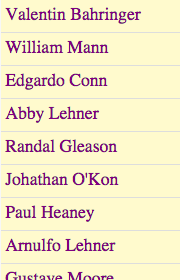
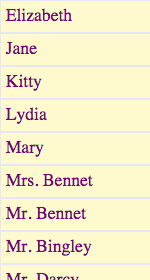
incorporated feedback from Eric, Rob, and Kevin

Changed region(s): [[0.0, 0.2286, 1.0, 1.0], [0.0267, 0.0, 1.0, 0.0857], [0.0, 0.1143, 1.0, 0.2]]

diff --git a/docs/elements/core-list-examples/core-list-names.html b/docs/elements/core-list-examples/core-list-names.html
@@ -8,6 +8,7 @@
   <style>
     core-list {
       border: solid 1px purple;
+      height: 200px;
     }
       
     div.item {
@@ -25,7 +26,7 @@
 
   <template is="auto-binding" id="my-core-list">
     <div class="content" flex>
-      <core-list data="{{data}}" flex>
+      <core-list data="{{data}}" flex height="30">
         <template>
           <div class="item">
             <span class="from">{{model.name}}</span>
@@ -36,11 +37,11 @@
   </template>
   
   <script>
-    var c = document.querySelector('#my-core-list');
+    var cl = document.querySelector('#my-core-list');
     names = [ 'Elizabeth', 'Jane', 'Kitty', 'Lydia', 'Mary', 'Mrs. Bennet', 'Mr. Bennet', 'Mr. Bingley', 'Mr. Darcy', '...'] ;
-    c.data = [];
+    cl.data = [];
     for (i = 0; i < names.length; i++) {
-      c.data.push({name: names[i]});
+      cl.data.push({name: names[i]});
     }
   </script>
 

diff --git a/docs/elements/core-list-examples/core-list-no-stale-images.html b/docs/elements/core-list-examples/core-list-no-stale-images.html
@@ -25,6 +25,9 @@
     <polymer-element name="list-test" layout vertical>
       <template>
         <style>
+          .image {
+            background-color: lightgray;
+          }
         </style>
 
         <core-header-panel id="hPanel" flex>
@@ -32,9 +35,7 @@
           <core-list id="list" data="{{data}}" flex>
             <template>
               <div class="item">
-              <core-image src="{{model.image.src}}"
-                   style="width:{{model.image.width}};
-                   height:{{model.image.height}}; background-color: lightgray;" preload></core-image>
+              <core-image class="image" src="{{model.image.src}}" width="{{model.image.width}}" height="{{model.image.height}}" preload></core-image>
               </div>
             </template>
           </core-list>

diff --git a/docs/elements/core-list.md b/docs/elements/core-list.md
@@ -8,8 +8,6 @@ subtitle: Guide
 
 <link rel="import" href="/elements/side-by-side.html">
 
-<!--<link rel="stylesheet" href="tutorial.css">-->
-
 <link rel="stylesheet" href="core-list.css">
 
 
@@ -23,7 +21,7 @@ which displays a virtual, infinite list of homogeneous items.
 A `core-list` item can contain text, images, or other kinds of elements.
 In addition, an item can be composed of multiple elements.
 
-<img src="/images/core-list/unsorted-names.png" height="280px" width="180px" style="float:left">
+<img src="/images/core-list/unsorted-names.png" height="280px" width="150px" style="float:left">
 <img src="/images/core-list/small-images.png" height="279px" width="110px" style="float:left;margin-left:30px">
 <img src="/images/core-list/multiple-elements.png" height="280px" width="265px" style="margin-left:30px">
 
@@ -65,11 +63,11 @@ but could be inside a {{site.project_title}} element.
 
 <pre>
 &lt;template is="auto-binding" id="my-core-list"&gt;
-  &lt;div&gt;
-    &lt;core-list id="list" <strong class="highlight nocode">data="{%raw%}{{data}}{%endraw%}"</strong> flex>
+  &lt;div class="content" flex&gt;
+    &lt;core-list <strong class="highlight nocode">data="{%raw%}{{data}}{%endraw%}"</strong> flex height="30">
       &lt;template>
         &lt;div class="item">
-          <strong class="highlight nocode">&lt;span>{%raw%}{{model.name}}{%endraw%}&lt;/span></strong>
+          <strong class="highlight nocode">&lt;span class="from">{%raw%}{{model.name}}{%endraw%}&lt;/span></strong>
         &lt;/div>
       &lt;/template>  
     &lt;/core-list>
@@ -118,6 +116,12 @@ For example, the 4th item in the list of names might have this model:
 }
 </pre>
 
+You refer to values in the model using a key:
+
+<pre>
+{%raw%}{{model.name}}{%endraw%}
+</pre>
+
 ## Using core-image with core-list
 
 Recall that just enough template elements are rendered to fill the viewport and that
@@ -158,8 +162,8 @@ This `core-list` uses a `<core-image>` element to display each image using the d
 &lt;core-list id="list" data="<strong class="highlight nocode">{%raw%}{{data}}{%endraw%}</strong>" flex&gt;
   &lt;template&gt;
     &lt;div class="item"&gt;
-      <strong class="highlight nocode">&lt;core-image src="{%raw%}{{model.image.src}}{%endraw%}"
-           style="width:{%raw%}{{model.image.width}}{%endraw%}; height:{%raw%}{{model.image.height}}{%endraw%}"&gt;&lt;/core-image&gt;</strong>
+      <strong class="highlight nocode">&lt;core-image class="image" src="{%raw%}{{model.image.src}}{%endraw%}"
+          width="{%raw%}{{model.image.width}}{%endraw%}" height="{%raw%}{{model.image.height}}{%endraw%}" style="background:Gray" preload&gt;&lt;/core-image&gt;</strong>
     &lt;/div&gt;
   &lt;/template&gt;
 &lt;/core-list&gt;
@@ -169,8 +173,12 @@ This `core-list` uses a `<core-image>` element to display each image using the d
 
 The `preload` attribute means that the `core-image` shows the background color or an alternate image (set with the `placeholder` attribute) until the true image is completely loaded. So instead of seeing stale images in the recycled templates, you see a background color or another image.
 
-## Providing heights
- 
+## Essential: Providing heights
+
+**A `core-list` must have a size so that its contents scroll when the height of the items is large enough to overflow that size.** By "must have a size", this generally means it has a `fit` or `flex` layout attribute, or has an explicit `height` set in CSS. `flex` only has meaning if its parent has either `layout horizontal` or `layout vertical`.
+
+### Image heights
+
 The browser must be able to determine the height of the item at the point the model is bound to the template. So `<img>` or `<core-image>` elements must have explicit heights and must not rely on loading the image to determine the height. The list will break unless you set the height of the image explicitly either:
 
 with the CSS height attribute (as in the name example above)
@@ -179,14 +187,20 @@ with the `core-list` `height` property
 
 Furthermore, custom elements must not change their height asynchronously (for example, in response to UI events, `setTimeout()`, animations, and so on).
 
-### Using the height attribute
+### Setting row height
 
 The `core-list` element has a `height` attribute
-that you can use to set the approximate height on average of the list items in pixels.
+that you can use to set the approximate height, on average, of the list items in pixels.
 `core-list` uses this value to determine how many elements
 to render based on its viewport size.
 Normally you don't need to adjust this value unless the average
 size is much larger or smaller than the default of 200.
+In the example above that displays names, the items` height was 30 pixels.
+This example needs to use the `height` property on the `core-list`.
+
+The basic rule is that if you have fixed-height rows, set the `height` property
+of the `core-list`.  If you have variable height rows, set the `height` property
+if the average height is much larger or smaller than the default of 200px.
 
 <pre>
 &lt;core-list id="list" data="{%raw%}{{data}}{%endraw%}" height="80" flex&gt;
@@ -201,7 +215,7 @@ size is much larger or smaller than the default of 200.
 The `core-list` in the following example includes checkboxes, select elements,
 input elements along with text elements.
 
-![Core-list that contains different kinds of elements](core-list-images/multiple-elements.png)
+![Core-list that contains different kinds of elements](/images/core-list/multiple-elements.png)
 
 Here’s the code that puts the checkbox, the text input field, and the select element in
 the `core-list` template.
@@ -232,28 +246,27 @@ The user data in the model mirrors the elements in the template.
 
 ## Using core-header-panel with core-list {#list-with-core-header-panel}
 
-A common way to provide a header with a `core-list`
-is to use a
-<code><a href="/docs/elements/core-elements.html#core-header-panel">core-header-panel</a></code>, which 
-contains a <code><a href="/docs/elements/core-elements.html#core-toolbar">core-toolbar</a></code>.
+A common way to provide a header with a `core-list` is to use a
+<code><a href="/docs/elements/core-elements.html#core-header-panel">core-header-panel</a></code>. The `core-header-panel` has a header section and a content section. You can use a 
+<code><a href="/docs/elements/core-elements.html#core-toolbar">core-toolbar</a></code> to implement the header section. Let’s look at an example.
 
-Remember to install and import the two new elements in the header of your HTML code!
+Remember to install and import the two new elements in the header of your HTML code.
 
     <link rel="import" href="bower_components/core-header-panel/core-header-panel.html">
     <link rel="import" href="bower_components/core-toolbar/core-toolbar.html">
 
-Embed the `core-list` within the `core-toolbar` within a `core-header-panel`.
+Embed the `core-list` in a `core-header-panel`. Include a `core-toolbar` as well. The `core-toolbar` remains in place at the top of the viewport as the user scrolls. It has a shadow, which gives the illusion of the `core-list` items scrolling up under the toolbar.
 
 <pre>
   <strong class="highlight nocode">&lt;core-header-panel id="hPanel" flex&gt;
-    &lt;core-toolbar&gt;Images&lt;/core-toolbar&gt;</strong>
+    &lt;core-toolbar&gt;Variable height images&lt;/core-toolbar&gt;</strong>
     &lt;core-list id="list" data="{%raw%}{{data}}{%endraw%}" flex&gt;
       ...
     &lt;/core-list&gt;
   <strong class="highlight nocode">&lt;/core-header-panel&gt;</strong>
 </pre>
 
-The `core-list` in this example is contained within a {{site.project_title}} element, so the initialization code appears in the `ready()` method.
+The `core-list` in this example is contained within a {{site.project_title}} element, so the code that populates the `core-list` appears in the `ready()` method.
 
 The highlighted line of code below is critical.
 It tells the `core-list` to listen for scroll events
@@ -278,20 +291,24 @@ You can also set the scroll target in markup as follows:
 
 ## Summary
 
+You can use `core-list` to display a large list of homogenous items. You must explicitly manage the heights of the items and of the `core-list` itself to get proper behavior. A `core-list` can contain many different kinds of elements. Use a `core-header-panel` along with a `core-toolbar` to provide a header. When displaying images, use `core-image` to avoid displaying stale images due to slower loading times.
+
+## More Resources
+
 Use these links to find the source code for the samples used in this guide
 and to run them:
 
-* [core-list with names](https://github.com/marycampione/core-list-examples/blob/master/core-list-names.html)
+* [core-list with names](/samples/core-list/core-list-names.txt)
 <a href="core-list-examples/core-list-names.html" class="link_button"
-         target="_blank" >DEMO</a>
+         target="_blank" >Run it</a>
 
-* [core-list with variable height images and core-header-panel](https://github.com/marycampione/core-list-examples/blob/master/core-list-no-stale-images.html)
+* [core-list with variable height images and core-header-panel](/samples/core-list/core-list-no-stale-images.txt)
 <a href="core-list-examples/core-list-no-stale-images.html" class="link_button"
-         target="_blank" >DEMO</a>
+         target="_blank" >Run it</a>
 
-* [core-list with a variety of elements](https://github.com/marycampione/core-list-examples/blob/master/multiple-elements.html)
+* [core-list with a variety of elements](/samples/core-list/multiple-elements.txt)
 <a href="core-list-examples/multiple-elements.html" class="link_button"
-         target="_blank" >DEMO</a>
+         target="_blank" >Run it</a>
 
 For more information about the core elements used in this guide,
 check out the API docs:
